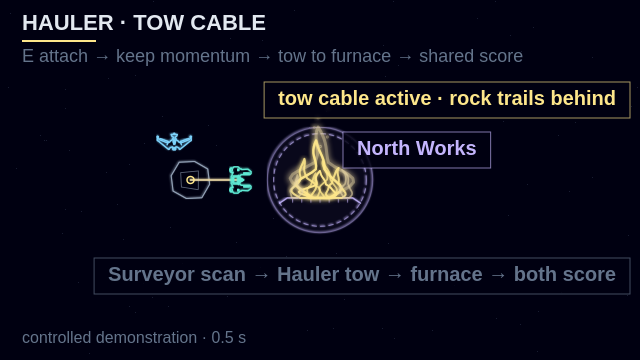
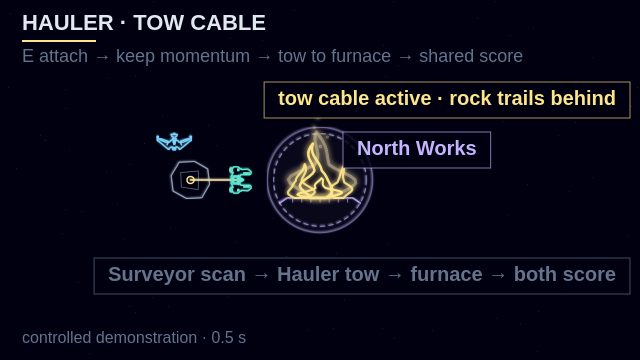
feat(render): let the furnace fire surge and gutter visibly
Rebuild the blaze from five large tongues instead of nine small ones, deepen the per-tongue breathing, and whip the tips harder so the whole silhouette changes. With a fixed camera the flame tip now swings about 25px at gameplay scale and roughly half the outline redraws every 50ms; the previous thicket averaged out to a near-static envelope.

Changed region(s): [[0.4375, 0.3361, 0.5625, 0.55]]

diff --git a/src/rendering/furnaceRenderer.ts b/src/rendering/furnaceRenderer.ts
@@ -32,14 +32,17 @@ interface FlameTongue {
   readonly glowScale: number;
 }
 
-/** Overlapping tongues of different heights read as fire rather than one chevron. */
+/**
+ * A few big tongues, not a thicket: each one has to surge and gutter far enough
+ * that the outline of the whole fire changes, or the blaze reads as a decal.
+ */
 const FLAME_TONGUES: readonly FlameTongue[] = [
   {
-    heightScale: 1.28,
-    halfWidthScale: 0.62,
+    heightScale: 1.05,
+    halfWidthScale: 0.66,
     lean: 0,
-    sway: 0.087,
-    speed: 0.85,
+    sway: 0.1,
+    speed: 0.9,
     phase: 0,
     color: PALETTE.LOOT,
     alpha: 0.34,
@@ -47,100 +50,52 @@ const FLAME_TONGUES: readonly FlameTongue[] = [
     glowScale: 1.7,
   },
   {
-    heightScale: 1.14,
-    halfWidthScale: 0.44,
-    lean: -0.02,
-    sway: 0.116,
-    speed: 1.2,
-    phase: 0.8,
+    heightScale: 1,
+    halfWidthScale: 0.34,
+    lean: -0.05,
+    sway: 0.19,
+    speed: 1.35,
+    phase: 1.15,
     color: PALETTE.LASER_LOCAL,
     alpha: 0.95,
-    widthScale: 1.15,
-    glowScale: 1.3,
+    widthScale: 1.2,
+    glowScale: 1.35,
   },
   {
-    heightScale: 0.94,
-    halfWidthScale: 0.26,
-    lean: -0.28,
-    sway: 0.189,
-    speed: 1.65,
-    phase: 2.1,
+    heightScale: 0.92,
+    halfWidthScale: 0.27,
+    lean: -0.36,
+    sway: 0.26,
+    speed: 1.75,
+    phase: 3.2,
     color: PALETTE.LASER_LOCAL,
-    alpha: 0.82,
-    widthScale: 0.95,
-    glowScale: 1,
+    alpha: 0.85,
+    widthScale: 1,
+    glowScale: 1.1,
   },
   {
-    heightScale: 0.86,
-    halfWidthScale: 0.24,
-    lean: 0.3,
-    sway: 0.203,
-    speed: 1.5,
-    phase: 3.9,
+    heightScale: 0.88,
+    halfWidthScale: 0.25,
+    lean: 0.37,
+    sway: 0.28,
+    speed: 1.55,
+    phase: 5.1,
     color: PALETTE.LASER_LOCAL,
-    alpha: 0.82,
-    widthScale: 0.95,
-    glowScale: 1,
+    alpha: 0.85,
+    widthScale: 1,
+    glowScale: 1.1,
   },
   {
-    heightScale: 0.74,
-    halfWidthScale: 0.18,
-    lean: -0.13,
-    sway: 0.174,
-    speed: 1.9,
-    phase: 4.6,
-    color: PALETTE.LASER_LOCAL,
-    alpha: 0.7,
-    widthScale: 0.85,
-    glowScale: 0.95,
-  },
-  {
-    heightScale: 0.68,
-    halfWidthScale: 0.17,
-    lean: 0.14,
-    sway: 0.174,
-    speed: 2.15,
-    phase: 0.4,
-    color: PALETTE.LASER_LOCAL,
-    alpha: 0.7,
-    widthScale: 0.85,
-    glowScale: 0.95,
-  },
-  {
-    heightScale: 0.6,
-    halfWidthScale: 0.4,
+    heightScale: 0.52,
+    halfWidthScale: 0.44,
     lean: 0.01,
-    sway: 0.072,
-    speed: 2.05,
-    phase: 1.3,
+    sway: 0.08,
+    speed: 2.2,
+    phase: 2.4,
     color: PALETTE.LASER_LOCAL,
     alpha: 1,
-    widthScale: 0.9,
-    glowScale: 1.15,
-  },
-  {
-    heightScale: 0.58,
-    halfWidthScale: 0.14,
-    lean: -0.47,
-    sway: 0.246,
-    speed: 2.3,
-    phase: 5.2,
-    color: PALETTE.LOOT,
-    alpha: 0.5,
-    widthScale: 0.8,
-    glowScale: 0.9,
-  },
-  {
-    heightScale: 0.5,
-    halfWidthScale: 0.13,
-    lean: 0.49,
-    sway: 0.261,
-    speed: 2.5,
-    phase: 6.4,
-    color: PALETTE.LOOT,
-    alpha: 0.5,
-    widthScale: 0.8,
-    glowScale: 0.9,
+    widthScale: 0.95,
+    glowScale: 1.2,
   },
 ];
 
@@ -268,9 +223,9 @@ function strokeFlames(
   for (const tongue of FLAME_TONGUES) {
     // Two detuned breaths per tongue: the fire surges and gutters instead of pulsing evenly.
     const roar =
-      0.82 +
-      Math.sin(seconds * 5.2 + tongue.phase) * 0.17 +
-      Math.sin(seconds * 9.7 + tongue.phase * 1.9) * 0.09;
+      0.84 +
+      Math.sin(seconds * 4.6 + tongue.phase) * 0.28 +
+      Math.sin(seconds * 8.1 + tongue.phase * 1.7) * 0.13;
     const contour = flameContour(
       x + radius * tongue.lean,
       mouthY,
@@ -312,8 +267,8 @@ function flameContour(
     const width = halfWidth * (1 - along) ** 0.72 * belly;
     const rise = along ** 1.45;
     const drift =
-      Math.sin(rise * 3.1 + seconds * tongue.speed * 2 + tongue.phase) * 0.62 +
-      Math.sin(rise * 6.3 - seconds * tongue.speed * 3.1 + tongue.phase * 1.7) * 0.26;
+      Math.sin(rise * 3.1 + seconds * tongue.speed * 3.1 + tongue.phase) * 0.68 +
+      Math.sin(rise * 6.3 - seconds * tongue.speed * 4.7 + tongue.phase * 1.7) * 0.3;
     const lateral = height * tongue.sway * rise * drift;
     const y = rootY - height * along;
     left.push({

diff --git a/tests/unit/rendering/furnace-hearth-roars-inside-the-delivery-zone.test.ts b/tests/unit/rendering/furnace-hearth-roars-inside-the-delivery-zone.test.ts
@@ -150,7 +150,8 @@ test('a discovered furnace burns a towering fire that fills the delivery zone', 
   expect(fill.mock.calls.length).toBeGreaterThan(0);
 
   const contours = flameContours(strokes);
-  expect(contours.length).toBeGreaterThanOrEqual(9);
+  const tongues = new Set(contours.map((path) => JSON.stringify(path.points)));
+  expect(tongues.size).toBeGreaterThanOrEqual(4);
 
   const yellow = canvasColor(ctx, hexToRgba(PALETTE.LASER_LOCAL, 1));
   const cream = canvasColor(ctx, hexToRgba(PALETTE.LOOT, 0.34));
